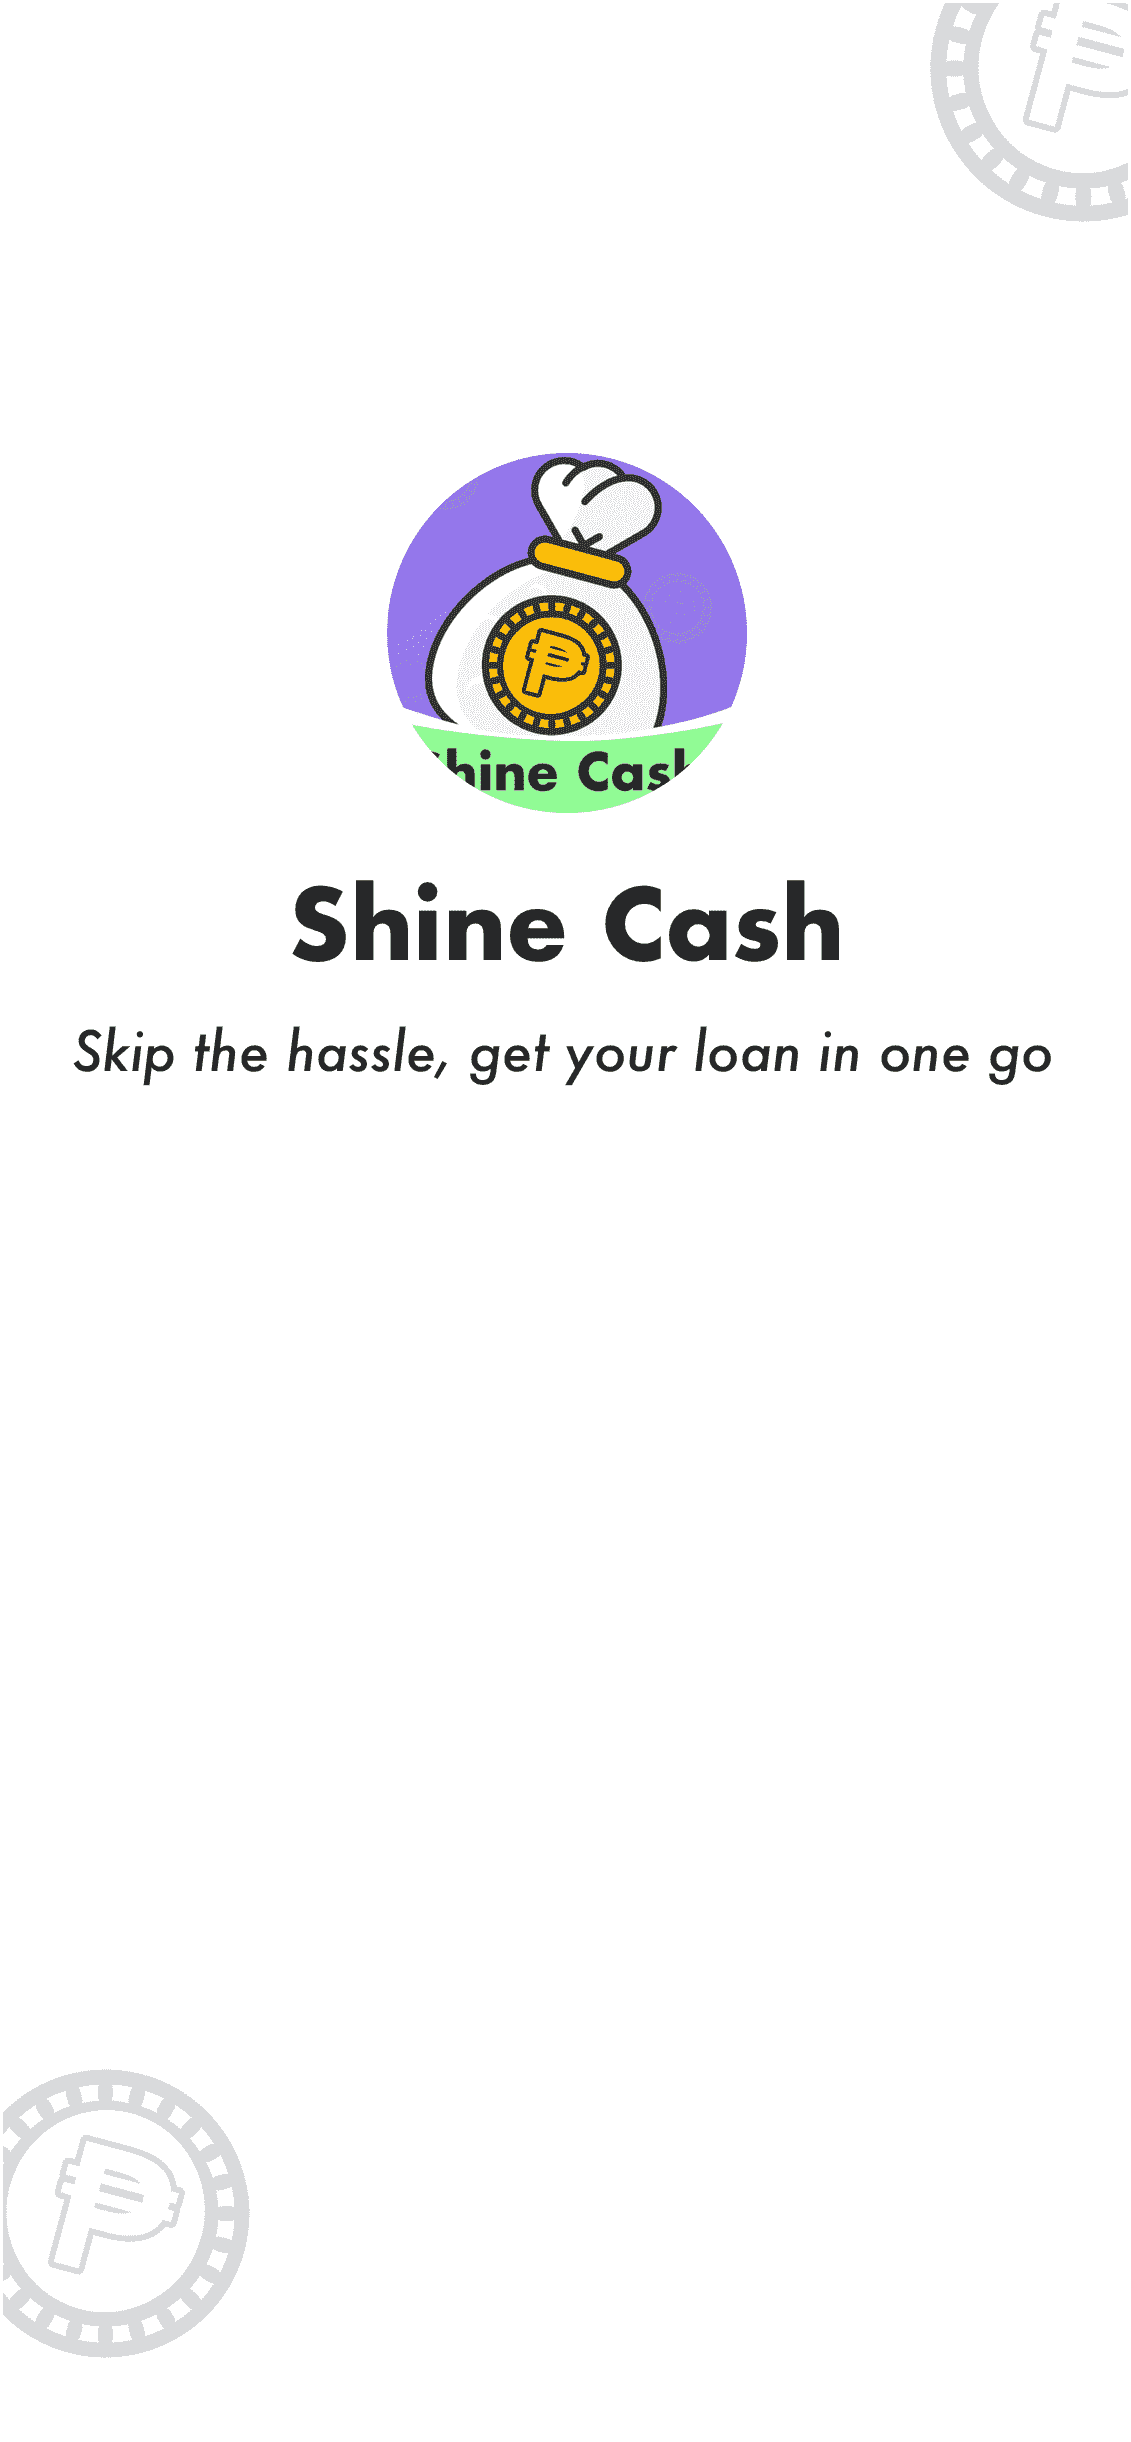
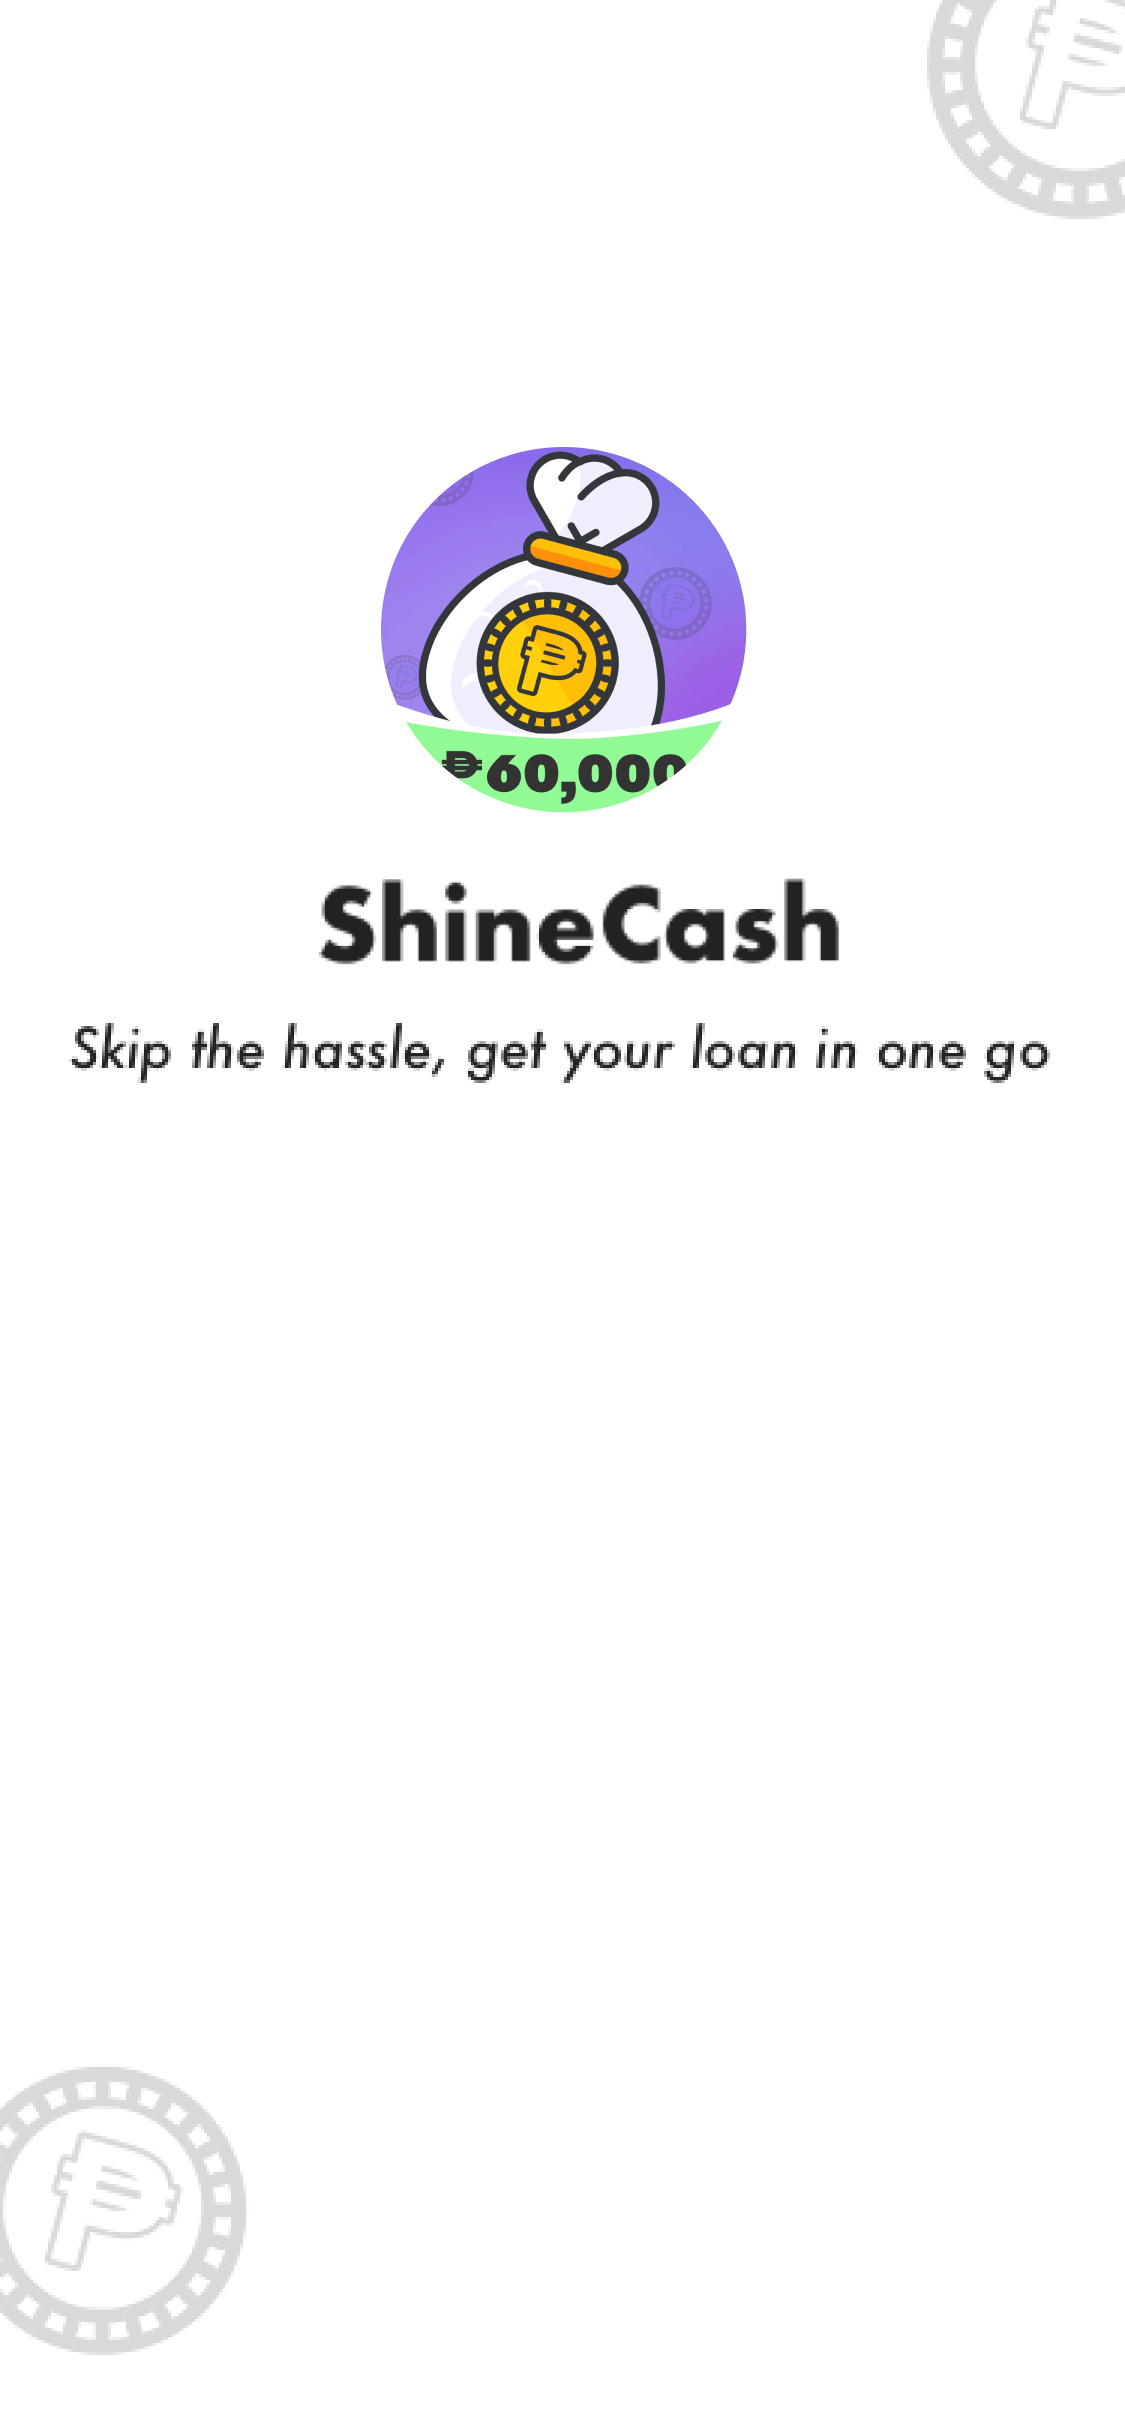
ref:替换logo

diff --git a/lib/features/login/login_view.dart b/lib/features/login/login_view.dart
@@ -68,10 +68,19 @@ Widget _loginView(LoginController controller) {
                 child: Row(
                   children: [
                     SizedBox(width: 10.w),
-                    Image.asset(
-                      'assets/images/login_logo_image.png',
+                    Container(
                       width: 120.w,
                       height: 120.h,
+                      decoration: BoxDecoration(
+                        shape: BoxShape.circle,
+                        border: Border.all(color: Colors.white, width: 3),
+                      ),
+                      child: ClipOval(
+                        child: Image.asset(
+                          'assets/images/login_logo_image.png',
+                          fit: BoxFit.cover,
+                        ),
+                      ),
                     ),
                     SizedBox(width: 15.w),
                     Column(
@@ -86,7 +95,7 @@ Widget _loginView(LoginController controller) {
                           ),
                         ),
                         Text(
-                          'Shine Cash',
+                          'ShineCash',
                           style: TextStyle(
                             fontSize: 24.sp,
                             fontWeight: FontWeight.w600,

diff --git a/lib/features/web/web_controller.dart b/lib/features/web/web_controller.dart
@@ -38,21 +38,21 @@ class WebController extends GetxController {
             // ToastManager.showProgressLoading(_progress.value);
             progress.value = 0;
             isLoading.value = true;
-            title.value = 'Shine Cash';
+            title.value = 'ShineCash';
           },
           onPageFinished: (url) async {
             // ToastManager.hideLoading();
             isLoading.value = false;
             final t = await webcontroller.getTitle() ?? '';
             if (t.isEmpty) {
-              title.value = 'Shine Cash';
+              title.value = 'ShineCash';
             } else {
               title.value = t;
             }
           },
           onWebResourceError: (error) {
             isLoading.value = false;
-            title.value = 'Shine Cash';
+            title.value = 'ShineCash';
           },
         ),
       )

diff --git a/lib/common/http/http_request.dart b/lib/common/http/http_request.dart
@@ -48,11 +48,11 @@ class ShineHttpRequest {
     // _configureProxy();
     _isInitialized = true;
 
-    print('Dio 初始化完成，baseUrl: $_apiUrl');
+    print('Dio. baseUrl: $_apiUrl');
   }
 
   void refreshDio() {
-    print('刷新 Dio 实例，新的 baseUrl: $_apiUrl');
+    print('refresh Dio new baseUrl: $_apiUrl');
     _initDio();
   }
 
